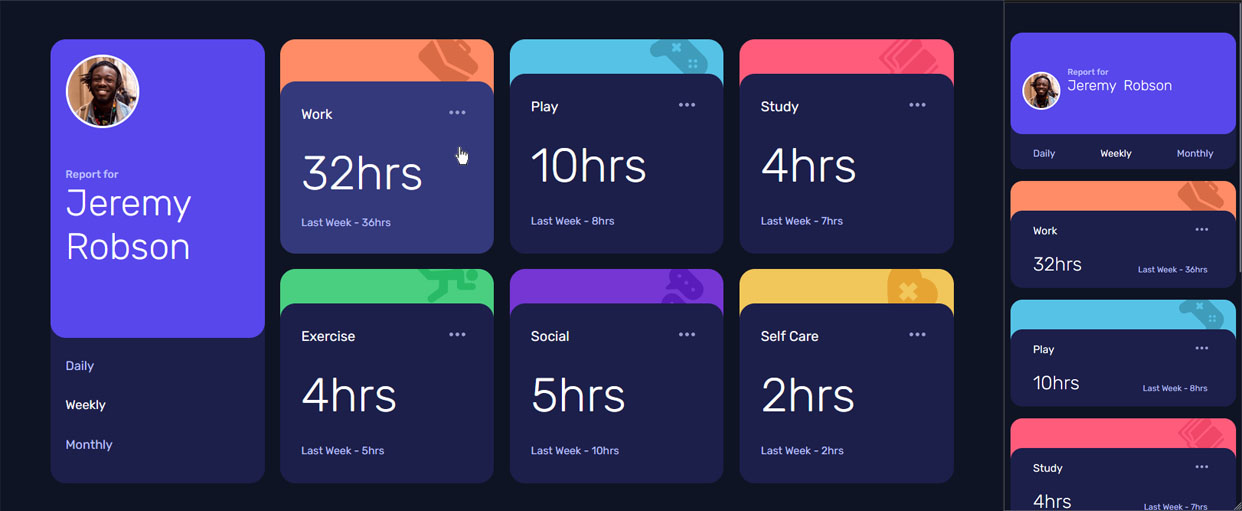
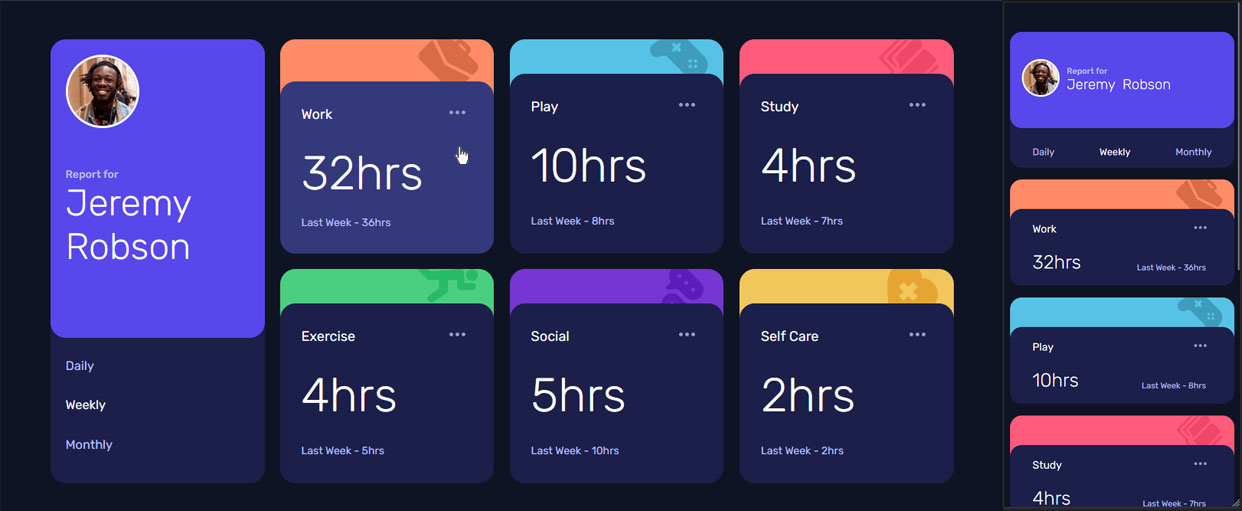
Time Tracker Dashboard
Fixed Photo alignment

diff --git a/time-tracking-dashboard-main/styles.scss b/time-tracking-dashboard-main/styles.scss
@@ -314,7 +314,7 @@ body{
                     width:64px;
                     height:64px;
 
-                    margin-top:calc((65% / 2) - 64px);
+                    margin-top:calc((180px / 2) - 64px);
                     margin-right: 12px;
 
                 }

diff --git a/time-tracking-dashboard-main/styles.css b/time-tracking-dashboard-main/styles.css
@@ -236,7 +236,7 @@ body {
   .profile .top .bio .bio-img {
     width: 64px;
     height: 64px;
-    margin-top: calc(32.5% - 64px);
+    margin-top: 26px;
     margin-right: 12px;
   }
   .profile .top .bio .intro {
